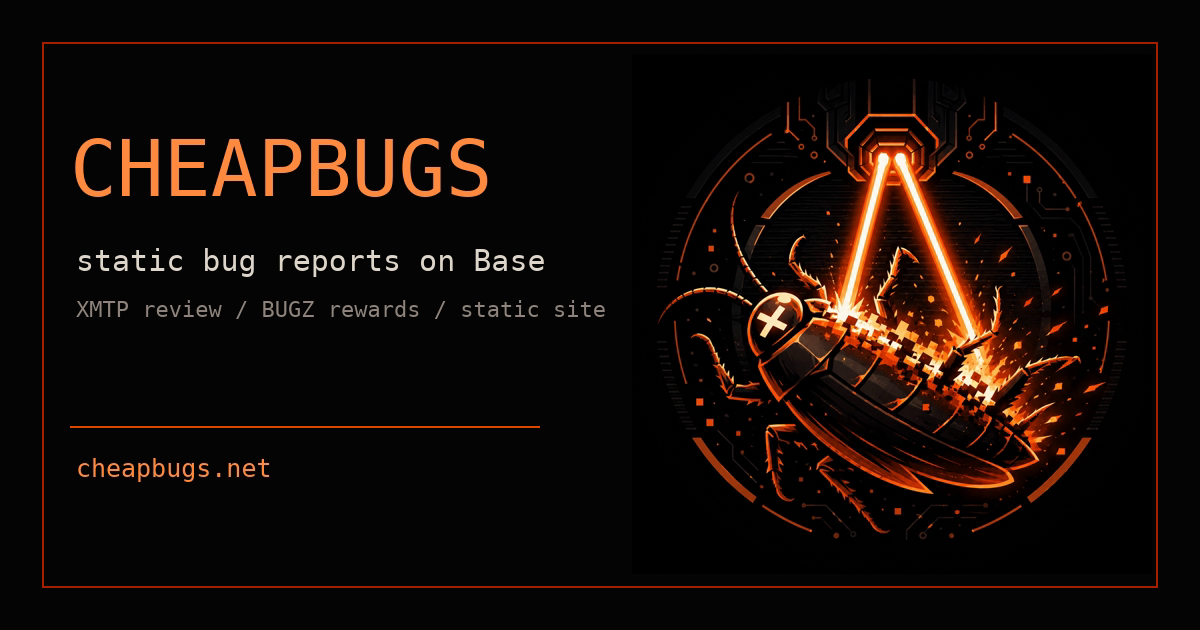
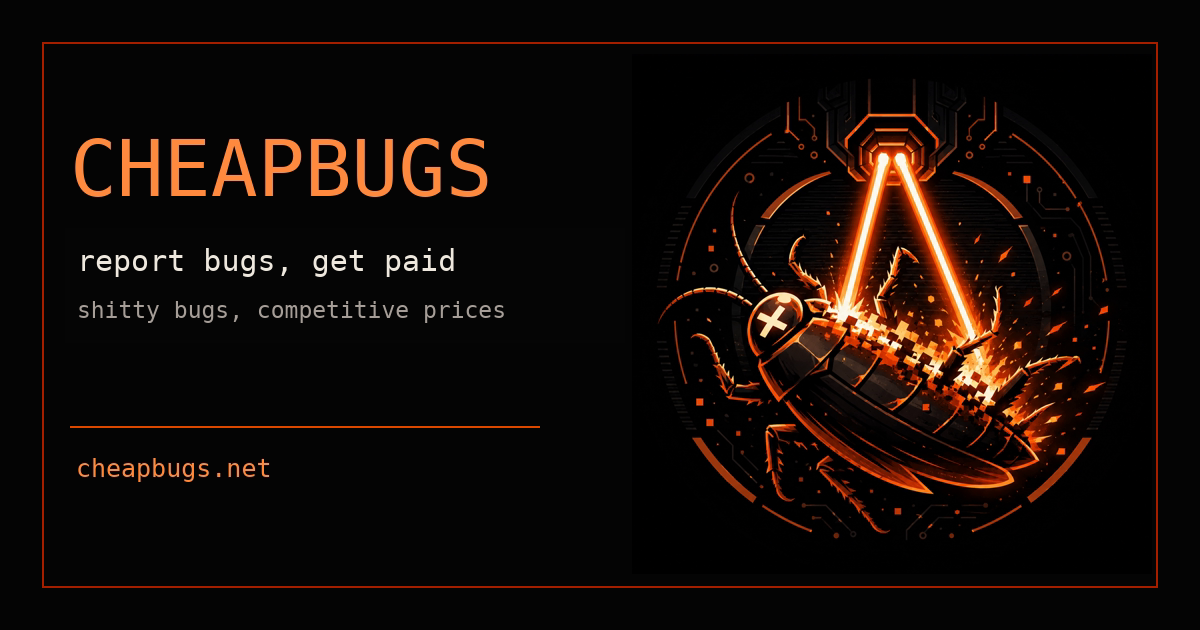
Update OG preview copy

Changed region(s): [[0.0617, 0.3921, 0.4625, 0.4524], [0.0617, 0.4825, 0.5242, 0.5127]]

diff --git a/index.html b/index.html
@@ -8,7 +8,7 @@
     />
     <meta
       name="description"
-      content="CheapBugs is a static Base-native bug report board with XMTP private review, BUGZ rewards, and no backend."
+      content="CheapBugs is a Base-native bug report board where researchers report bugs, get paid, and publish public-safe reports."
     />
     <meta name="theme-color" content="#050505" />
     <link rel="icon" href="/favicon.ico" sizes="32x32" />
@@ -19,7 +19,7 @@
     <meta property="og:title" content="CheapBugs" />
     <meta
       property="og:description"
-      content="Static bug reports on Base with XMTP review, BUGZ rewards, and no backend."
+      content="Report bugs, get paid. Shitty bugs, competitive prices."
     />
     <meta property="og:url" content="https://cheapbugs.net/" />
     <meta property="og:image" content="https://cheapbugs.net/og-image.png" />
@@ -30,7 +30,7 @@
     <meta name="twitter:title" content="CheapBugs" />
     <meta
       name="twitter:description"
-      content="Static bug reports on Base with XMTP review, BUGZ rewards, and no backend."
+      content="Report bugs, get paid. Shitty bugs, competitive prices."
     />
     <meta name="twitter:image" content="https://cheapbugs.net/og-image.png" />
     <title>CheapBugs</title>

diff --git a/AGENTS.md b/AGENTS.md
@@ -157,7 +157,7 @@ npm run launch:bug-index
 - Connected wallet UI resolves ENS name/avatar from Ethereum mainnet. The header avatar opens a profile modal; report author links route to `/profile/:address`. Editing/registering profile data should route users to the official ENS App instead of creating a local CheapBugs profile store.
 - ENS profile lookups cache resolved and missing profiles for 24 hours in `cheapbugs.ensProfileCache.v1` and keep a same-session memory cache in `src/lib/ens.ts`; the profile modal has a refresh button that bypasses the cache.
 - ENS avatars are read from the raw `avatar` text record with `ensClient.getEnsText({ key: "avatar" })`, then sanitized to HTTPS or an IPFS gateway URL with paths preserved. Do not switch this back to `getEnsAvatar`; viem's avatar parser HEAD-probes image URLs and can hide otherwise valid avatars when hosts reject HEAD/CORS.
-- Link previews use static OpenGraph/Twitter metadata in `index.html` with `https://cheapbugs.net/og-image.png`; favicon and app icons are served from `public/`.
+- Link previews use static OpenGraph/Twitter metadata in `index.html` with `https://cheapbugs.net/og-image.png`; current card copy is "report bugs, get paid" and "shitty bugs, competitive prices". Favicon and app icons are served from `public/`.
 - The site-wide development banner is rendered from `src/app.ts`; keep launch-date copy centralized there instead of duplicating it in route views. Its visual treatment should stay orange/warning-toned, not green/success-toned.
 - The submit route defaults to XMTP DM submission through broker wallet `0xea6995fc3674e1e94736766f5eeefb0506e4ef32`; `VITE_BROKER_XMTP_ADDRESS` overrides that broker. The browser uses `@xmtp/browser-sdk` with a Converge-style local generated wallet (`cheapbugs.localXmtpIdentity.v1`) or an existing wallet signer.
 - Browser-to-broker bug submissions use strict JSON schema `cheapbugs.bug_submission.v1` from `src/xmtp/broker.ts`; the current submit form collects title, target reference, bug type (`0day`, `nday`, `web`, `web3`, `net`, `intel`), severity, target interest, public summary, and private details. The browser writes the target reference into the BugBundle target with kind `other`, generates the details key, encrypts details into `cheapbugs.bug_bundle.v1`, signs a `PublishBug` EIP-712 authorization over the bundle hash and commitments, and sends the bundle, `publish_authorization`, and out-of-bundle `details_key` to the broker over XMTP. Do not re-add repro/evidence/Signal/target kind/tags/review-access-key fields unless the product direction changes.